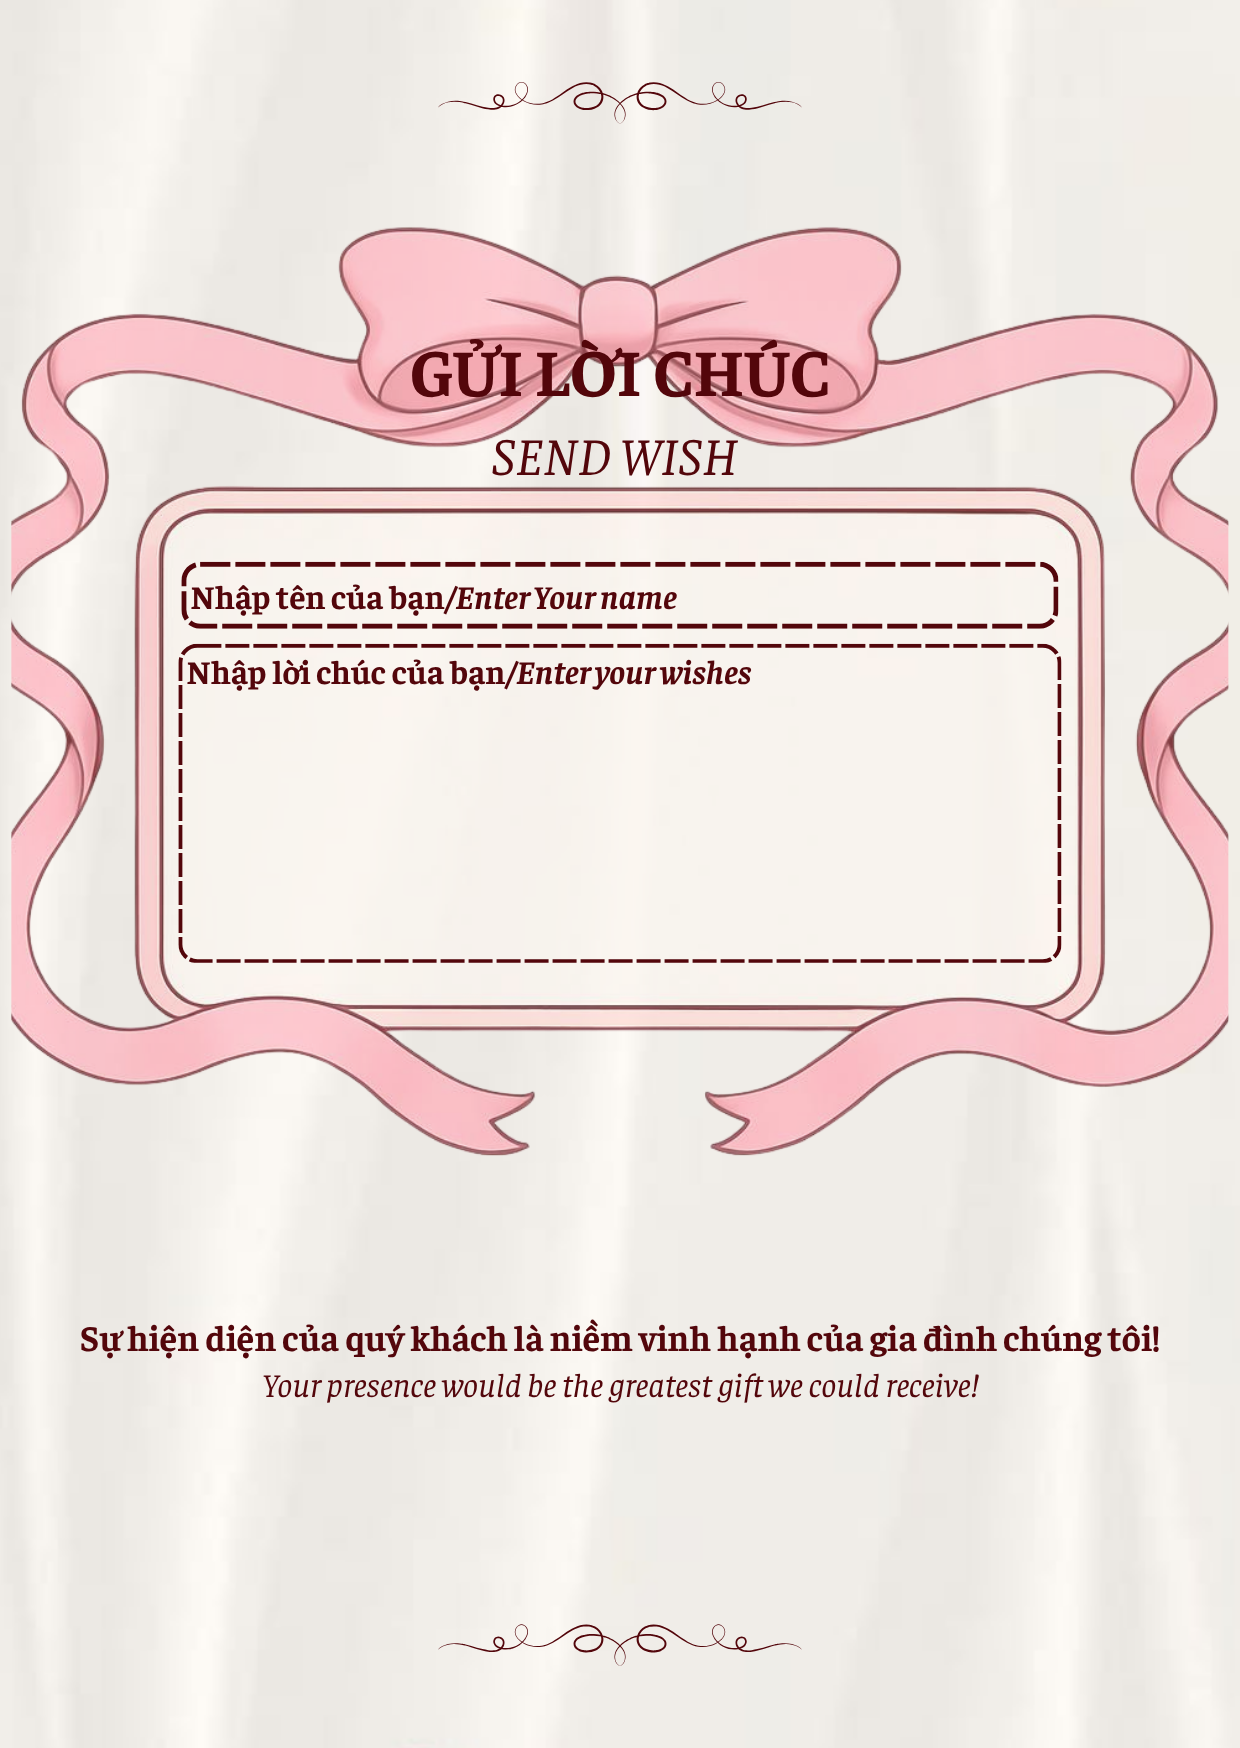
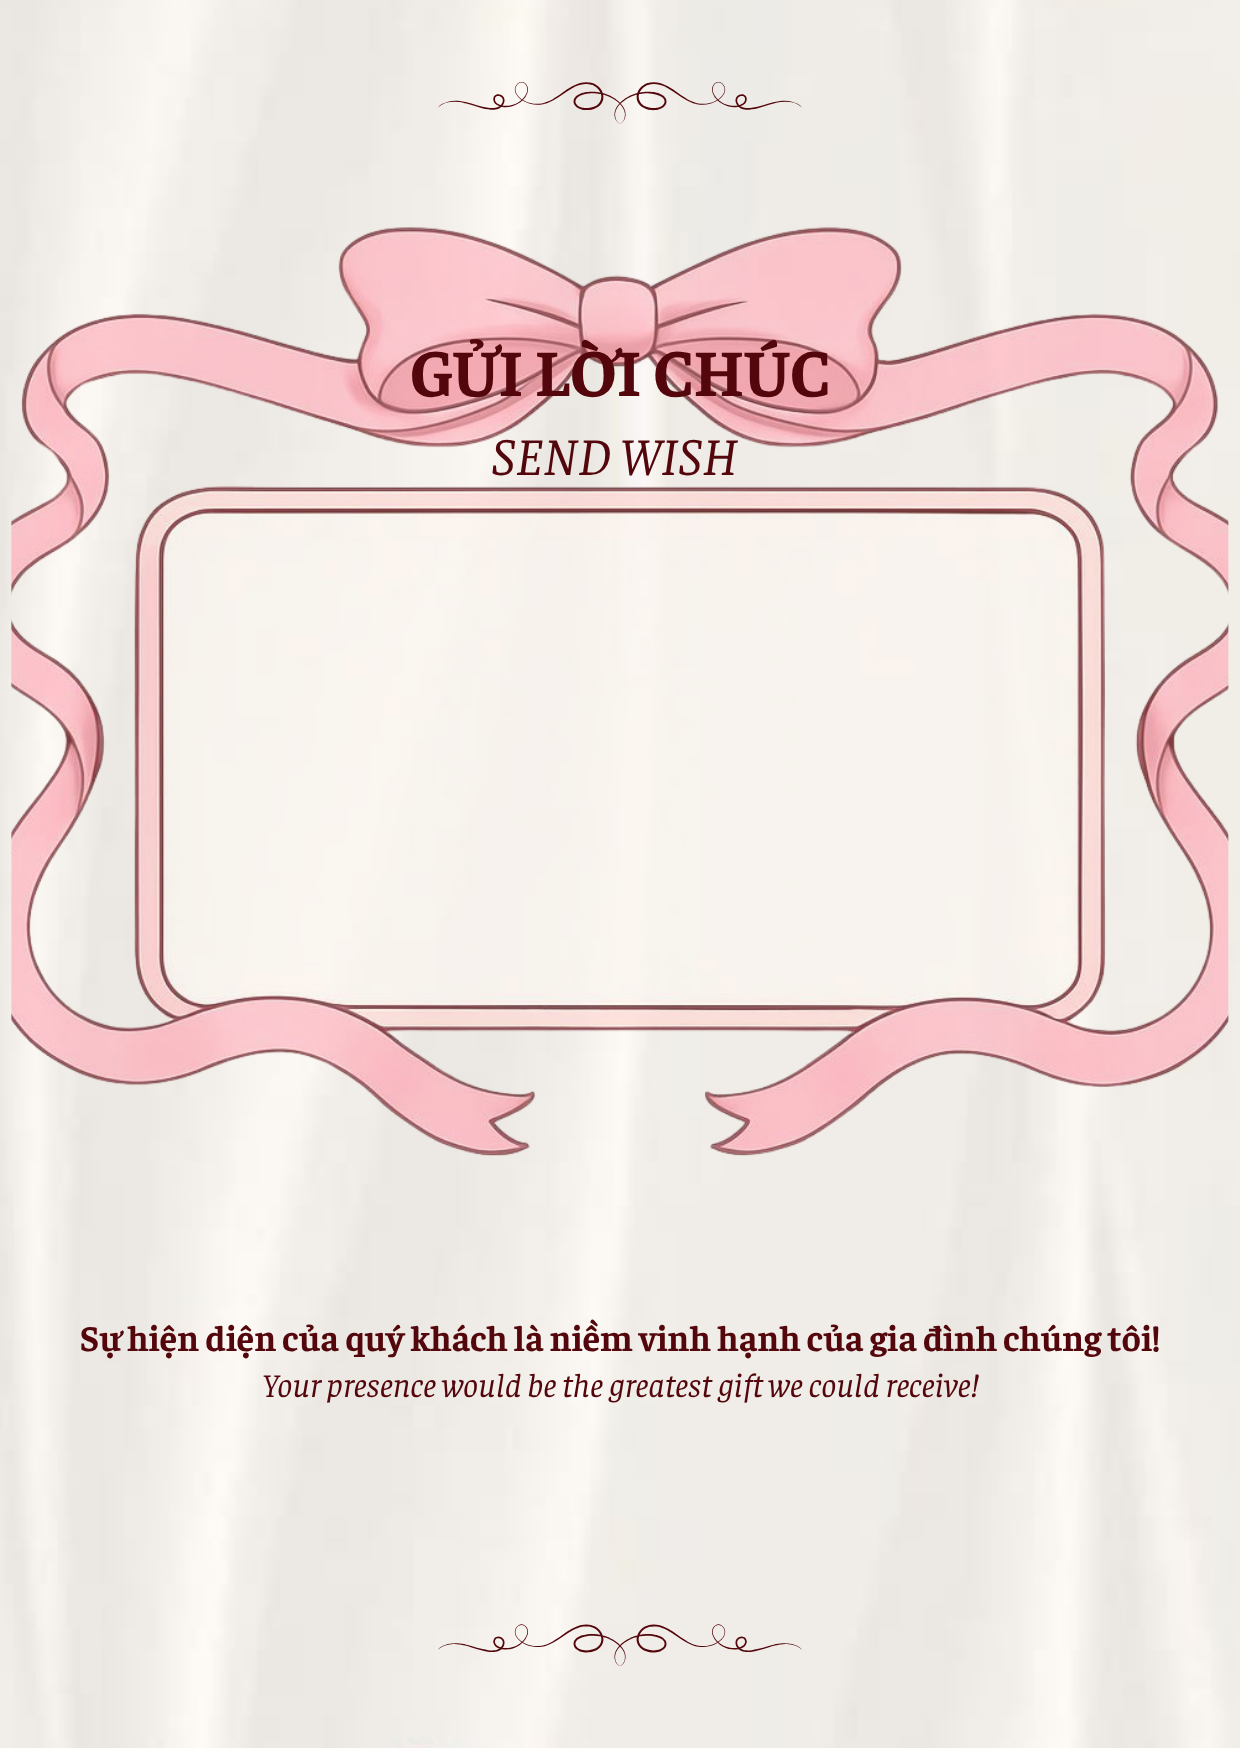
add wish form

Changed region(s): [[0.1226, 0.3089, 0.8581, 0.5561]]

diff --git a/app/component/WishForm.tsx b/app/component/WishForm.tsx
@@ -1,0 +1,91 @@
+"use client";
+
+import { useState } from "react";
+import { API_URL } from "../util";
+import { FullImageSlide } from "./FullImageSlide";
+
+export default function WishForm() {
+  const [name, setName] = useState("");
+  const [message, setMessage] = useState("");
+  const [loading, setLoading] = useState(false);
+  const [toast, setToast] = useState<{ text: string; type: "success" | "error" } | null>(null);
+
+  const showToast = (text: string, type: "success" | "error" = "success") => {
+    setToast({ text, type });
+    setTimeout(() => setToast(null), 2500); // tự ẩn sau 2.5s
+  };
+
+  const handleSubmit = async () => {
+    if (!name.trim()) {
+      showToast("Vui lòng nhập tên nhé 😊", "error");
+      return;
+    }
+
+    setLoading(true);
+
+    try {
+      await fetch(API_URL, {
+        method: "POST",
+        mode: "no-cors", // fix CORS với Google Script
+        body: JSON.stringify({
+          name,
+          message,
+        }),
+      });
+
+      showToast("Đã gửi lời chúc 💌", "success");
+      setName("");
+      setMessage("");
+    } catch (e) {
+      showToast("Gửi thất bại 😢", "error");
+    } finally {
+      setLoading(false);
+    }
+  };
+
+  return (
+    <div className="relative">
+      <FullImageSlide slideOrder={9} />
+
+      {/* form */}
+      <div className="absolute inset-0 flex items-center justify-center px-4">
+        <div className="w-3/4 max-w-sm">
+          <input
+            type="text"
+            placeholder="Nhập tên của bạn / Enter your name"
+            value={name}
+            onChange={(e) => setName(e.target.value)}
+            className="sm:w-5/6 sm:mx-8 w-full mb-3 sm:mt-16 mt-10 px-3 rounded-lg border-2 border-dashed border-pink-300 bg-white/80 backdrop-blur focus:outline-none focus:border-pink-500"
+          />
+
+          <textarea
+            placeholder="Nhập lời chúc của bạn / Enter your wishes"
+            value={message}
+            onChange={(e) => setMessage(e.target.value)}
+            rows={4}
+            className="sm:w-5/6 sm:mx-8 w-full mb-4 px-3 rounded-lg border-2 border-dashed border-pink-300 bg-white/80 backdrop-blur focus:outline-none focus:border-pink-500"
+          />
+
+          <button
+            onClick={handleSubmit}
+            disabled={loading}
+            className="w-full bg-pink-500 hover:bg-pink-600 text-white py-2.5 rounded-lg transition font-medium sm:mt-16 mt-10"
+          >
+            {loading ? "Đang gửi..." : "Gửi lời chúc 💖"}
+          </button>
+        </div>
+      </div>
+
+      {/* Toast */}
+      {toast && (
+        <div
+          className={`fixed bottom-6 left-1/2 transform -translate-x-1/2 px-5 py-3 rounded-lg text-white font-medium shadow-lg transition-all duration-300 ${
+            toast.type === "success" ? "bg-green-500" : "bg-red-500"
+          }`}
+        >
+          {toast.text}
+        </div>
+      )}
+    </div>
+  );
+}

diff --git a/app/component/SplashScreen.tsx b/app/component/SplashScreen.tsx
@@ -19,38 +19,53 @@ export default function SplashScreen({ onEnter }: { onEnter: () => void }) {
   return (
     <div
       onClick={handleEnter}
-      className={`fixed inset-0 z-50 flex items-center justify-center cursor-pointer 
-      transition-all duration-700
-      ${isClosing ? "opacity-0 scale-105" : "opacity-100 scale-100"}
-      bg-rose-50/80 backdrop-blur-lg`}
+      className={`fixed inset-0 z-50 flex items-center justify-center cursor-pointer transition-all duration-700 ${
+        isClosing ? "opacity-0 scale-105" : "opacity-100 scale-100"
+      } bg-transparent`}
     >
-      <div className="relative z-10 text-center">
+      {/* Background image + gradient overlay */}
+      <div
+        className="absolute inset-0"
+        style={{
+          backgroundImage:
+            "linear-gradient(to bottom right, rgba(255, 224, 230, 0.4), rgba(254, 243, 199, 0.4)), url('/asset/imgs/bg.jpg')",
+          backgroundSize: "cover",
+          backgroundPosition: "center",
+          backgroundRepeat: "no-repeat",
+        }}
+      />
+
+      {/* Content */}
+      <div className="relative z-10 text-center -translate-y-20 md:-translate-y-32">
+        {/* Wedding Invitation */}
         <p
-          className={`text-sm tracking-widest mb-3 text-rose-400 transition-all duration-500 ${
+          className={`text-2xl md:text-4xl tracking-widest font-semibold mb-3 text-rose-400 transition-all duration-500 ${
             clicked ? "opacity-0 translate-y-2" : "opacity-100"
           }`}
         >
           Wedding Invitation
         </p>
 
+        {/* Jun & Huyen */}
         <h1
-          className={`text-4xl md:text-5xl font-light text-rose-700 mb-4 transition-all duration-500 ${
+          className={`text-6xl md:text-8xl font-light text-rose-700 mb-4 transition-all duration-500 ${
             clicked ? "scale-95 opacity-0" : "scale-100 opacity-100"
           }`}
         >
           Jun & Huyen
         </h1>
 
+        {/* Tap / Nhấn để mở */}
         <p
-          className={`text-xs text-rose-300 transition-all duration-500 ${
+          className={`text-2xl md:text-4xl font-semibold text-rose-300 transition-all duration-500 ${
             clicked ? "opacity-0" : "opacity-100 animate-softPulse"
           }`}
         >
-          Tap to open 💌
+          Nhấn để mở 💌 / Tap to open 💌
         </p>
       </div>
 
-      {/* ripple */}
+      {/* Ripple effect */}
       {clicked && (
         <span className="absolute flex items-center justify-center">
           <span className="w-32 h-32 rounded-full bg-rose-200/40 animate-ripple" />

diff --git a/app/util/constant.tsx b/app/util/constant.tsx
@@ -24,40 +24,7 @@ export const SRC_PICTURE = {
   ],
 };
 
-//format date: YYYY-MM-DD HH:mmp:ss
-export const WEDDING_DATE = "2024-06-30 18:00:00";
-
 export const SRC_GG_MAP =
   "https://www.google.com/maps/embed?pb=!1m14!1m8!1m3!1d979.6004030445414!2d106.6990428!3d10.8570274!3m2!1i1024!2i768!4f13.1!3m3!1m2!1s0x317529d01d0ca585%3A0xb1a9a2b81dfaa8b6!2sHidden%20Mansions%20Saigon%20Resort!5e0!3m2!1sen!2s!4v1774861014513!5m2!1sen!2s";
 
-export const PARTICIPANTS = new Map<string, string>([
-  ["wJm7FeGy", "Gia đình Chị Hân"],
-  ["uTEsrfHT", "Chị Tường"],
-  ["HSCaHHcg", "Gia đình Bạn Huyền"],
-  ["3YA1RBlA", "Gia đình Anh Tứ"],
-  ["9xGQXRmu", "Em Lộc"],
-  ["oAetR14u", "Bạn Nguyệt + Hieulam"],
-  ["U52LwsOJ", "Bạn Yến"],
-  ["RzLT70ly", "Bạn Linh"],
-  ["03mHwJlM", "Bạn Hồng"],
-  ["NkAyOw3C", "Vợ Chồng Em Trang"],
-  ["PO4g5saZ", "Vợ Chồng Bạn Xuân Vinh"],
-  ["L0cDrCyw", "Vợ Chồng Bạn Trường Vinh"],
-  ["ht3FyapG", "Vợ Chồng Bạn Hữu Đạt"],
-  ["fTKlqy5z", "Vợ Chồng Bạn Quý"],
-  ["0nN36O7F", "Bạn Út Đạt"],
-  ["DHkP4X9u", "Vợ Chồng Em Trâm"],
-  ["frPrUnas", "Bạn Lộc"],
-  ["2XCiWv4a", "Bạn Xuân"],
-  ["hb9N99I2", "Bạn Phước"],
-  ["jOo5dOvD", "Bạn Nguyên"],
-  ["hUoNX9KS", "Bạn Thái Trung"],
-  ["kJx6xgwL", "Bạn Trâm"],
-  ["qFFDLLIx", "Bạn Gani Quang"],
-  ["m4jfYcEY", "Em Ra Him"],
-  ["RnL0JzwJ", "Gia Ðình Có Quầy"],
-  ["DKTW3oxF", "Bạn Ngọc Khánh"],
-  ["TBkg3rJr", "Bạn Huyền Trân"],
-  ["SjBtrrPk", "Bạn Lộc"],
-  ["q8D2IEO8", "Bạn Hiệp"],
-]);
+export const API_URL = process.env.NEXT_PUBLIC_API_URL!;

diff --git a/app/page.tsx b/app/page.tsx
@@ -1,11 +1,9 @@
 "use client";
 
-import {
-  FullImageSlide,
-  MapSlide
-} from "@/app/component";
+import { FullImageSlide, MapSlide } from "@/app/component";
 import { useEffect, useRef, useState } from "react";
 import SplashScreen from "./component/SplashScreen";
+import WishForm from "./component/WishForm";
 
 export type SlideType = "Static" | "Custom";
 
@@ -27,7 +25,7 @@ const SLIDE_TEMPLATE: SlideTemplate[] = [
     type: "Custom",
     customRender: <MapSlide />,
   },
-  { type: "Static" },
+  { type: "Custom", customRender: <WishForm /> },
 ];
 
 export default function MainScreen() {

diff --git a/app/component/index.ts b/app/component/index.ts
@@ -1,6 +1,5 @@
-export * from "./CountdownSlide";
-export * from "./CountdownTimer";
-export * from "./DynamicNameSlide";
 export * from "./FullImageSlide";
 export * from "./MapSlide";
+export * from "./SplashScreen";
+export * from "./WishForm";
 export * from "./index";

diff --git a/app/util/index.ts b/app/util/index.ts
@@ -1,2 +1,1 @@
 export * from "./constant";
-export * from "./helper";
